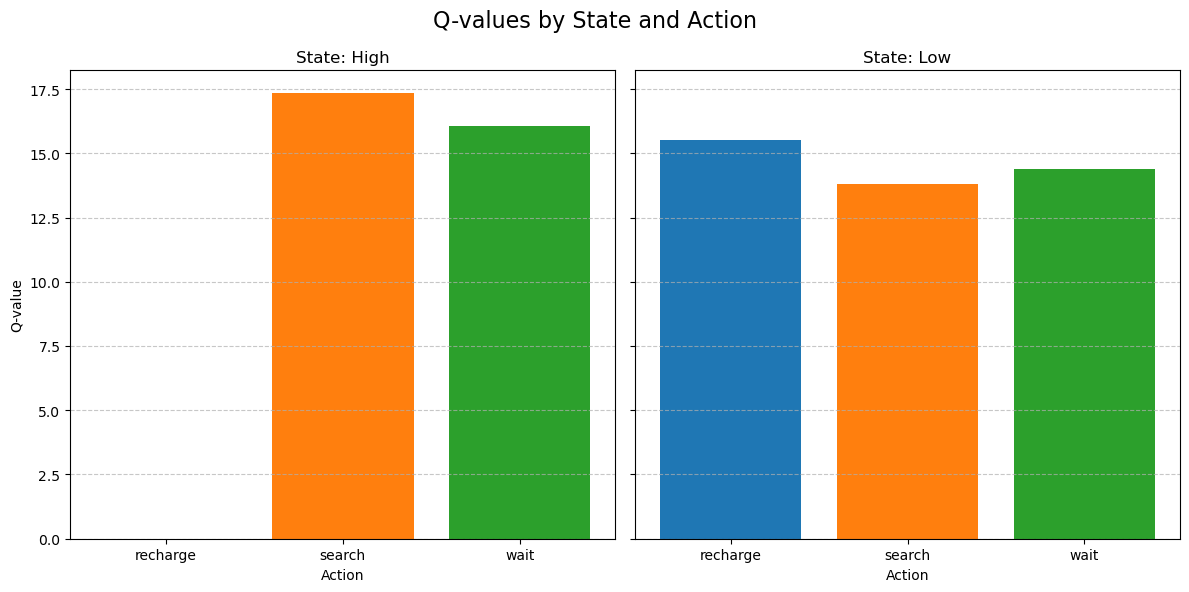
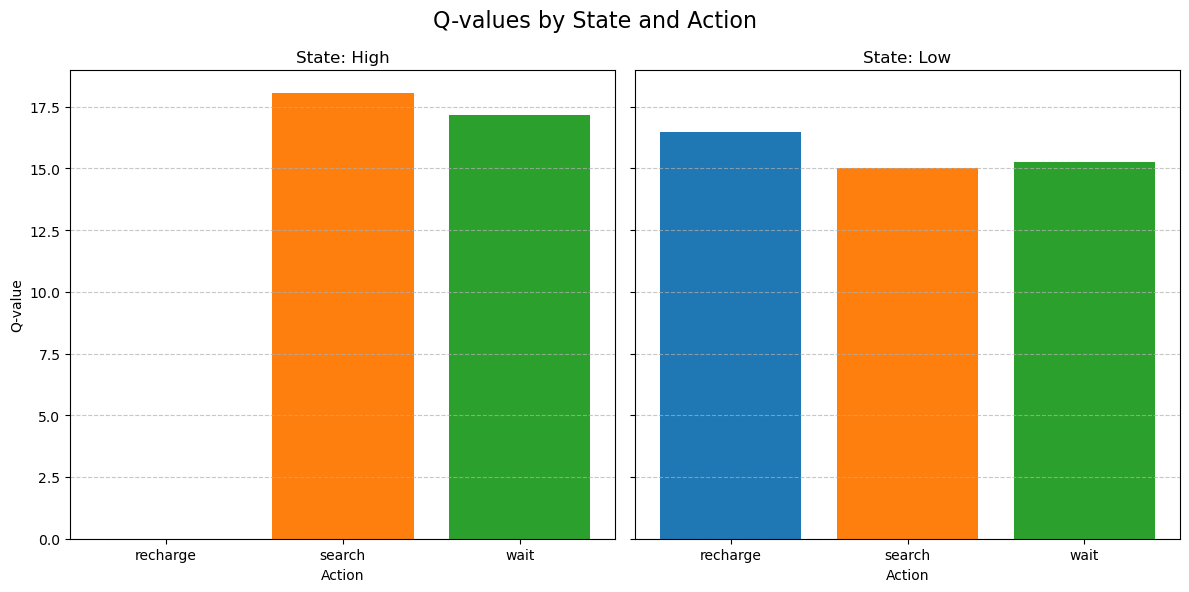
Corrections of transition probabilities \prob_alpha and \prob_beta

diff --git a/robot.py b/robot.py
@@ -37,23 +37,23 @@ class RecyclingRobot:
         """
         if state == "high":
             if action == "search":
-                if np.random.rand() < self.prob_alpha:  # Probability α
+                if np.random.rand() < self.prob_alpha:  
                     return "high", self.r_search  
                 else:
-                    return "low", self.r_search  # Battery depleted
+                    return "low", self.r_search  
             elif action == "wait":
                 return "high", self.r_wait  
             
         elif state == "low":
                 if action == "search":
-                    if np.random.rand() < self.prob_beta:  # Probability β
-                        return "high", self.r_search  
-                    else:
+                    if np.random.rand() < 1 - self.prob_beta:  
+                        return "low", self.r_search 
+                    else: 
                         return "high", -3  # After saving, it returns to high
                 elif action == "wait":
                     return "low", self.r_wait
                 elif action == "recharge":
-                    return "high", 0  # Recharge successfully
+                    return "high", 0  
 
         raise ValueError("Invalid state-action pair.")
 

diff --git a/README.md b/README.md
@@ -26,13 +26,14 @@ The Recycling Robot project demonstrates how a mobile robot can learn to efficie
 
 
 - **Transition Probabilities**:
-  - From **High** energy, searching can lower the battery level with probability $1 - \alpha$.
+  - From **High** energy, searching can: 
+    - Lower the battery level with probability $1 - \alpha$.
+    - Remain in High state with probability $\alpha$..
   - From **Low** energy, searching can:
-    - Recharge the battery to High with probability $\beta$.
     - Deplete the battery (requiring rescue) with probability $1 - \beta$.
-    - If not depleted, remain in Low state.
+    - Remain in Low state with probability $\beta$.
   
-  Recharging from Low to High is deterministic and safe.
+  Recharging from Low to High is deterministic.
 
 ### Parameters and Notation
 
@@ -89,12 +90,12 @@ To balance exploration and exploitation:
 
 ## Results and Analysis
 
-After training, the Q-table shows the learned values for each state-action pair. An example configuration might yield results like (See [robot_demo.ipynb](robot_demo.ipynb)):
+After training, the Q-table shows the learned values for each state-action pair. An example configuration might yield results like:
 
 | State | Search (Q) | Wait (Q) | Recharge (Q) |
 |-------|-------------|----------|--------------|
-| High  | 18.12       | 17.11    | N/A          |
-| Low   | 16.03       | 15.22    | 16.34        |
+| High  | 18.06       | 17.16    | N/A          |
+| Low   | 15.03       | 15.25    | 16.48        |
 
 ### Interpretation
 
